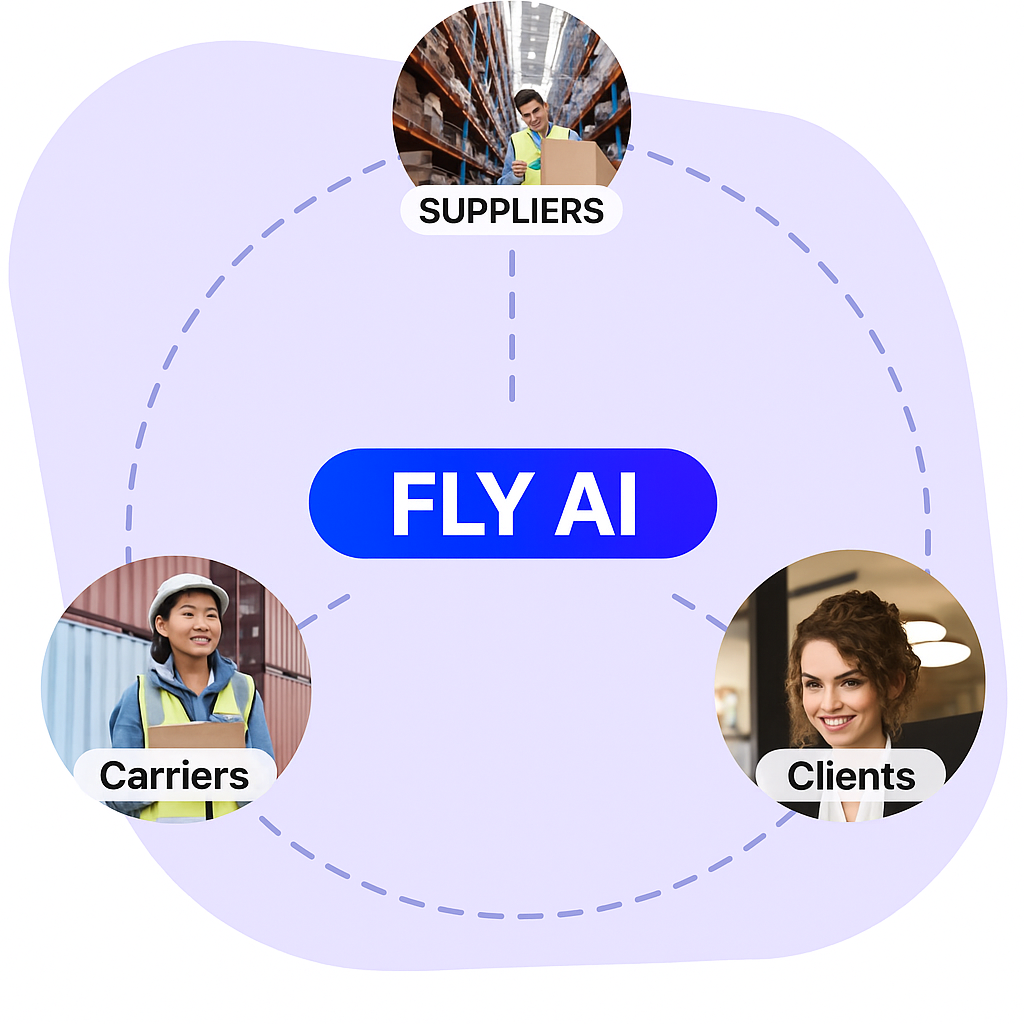
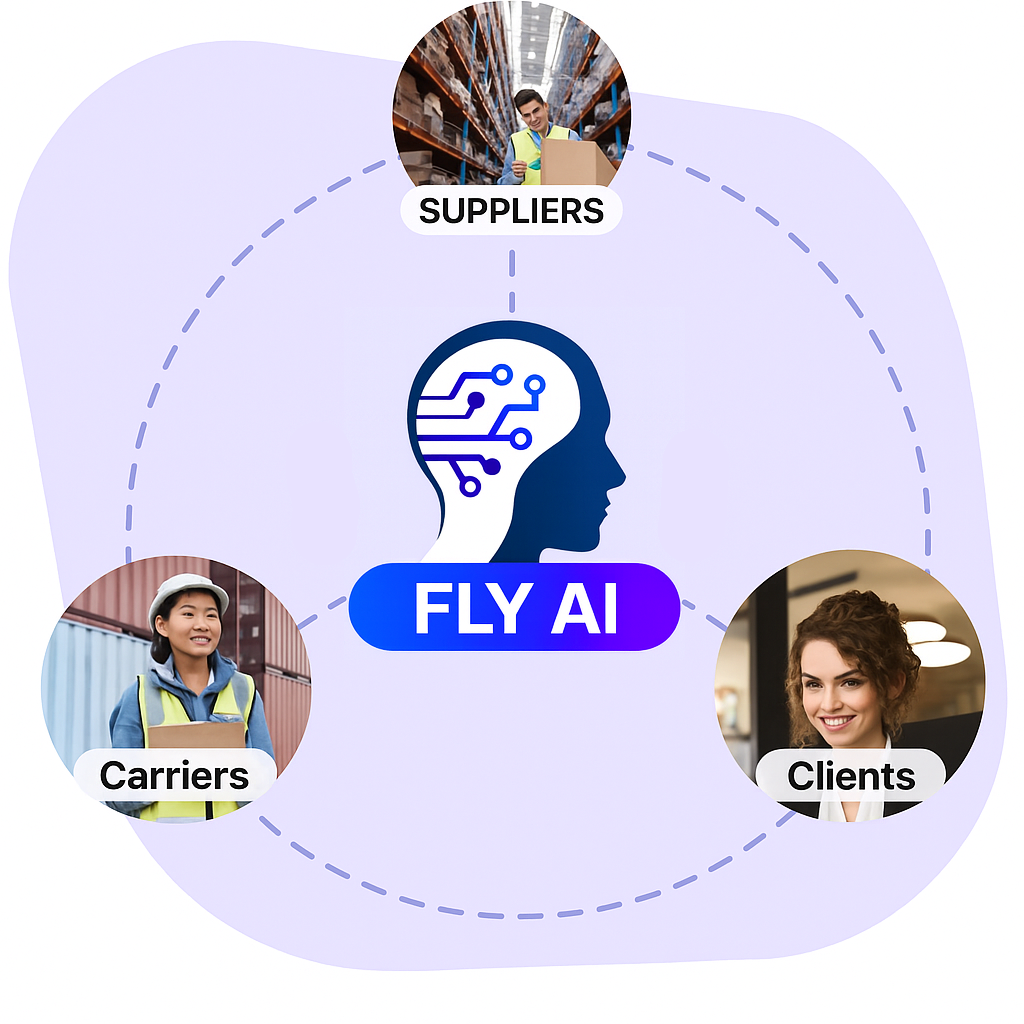
11

Changed region(s): [[0.2812, 0.3125, 0.7188, 0.6562]]

diff --git a/components/Navbar.tsx b/components/Navbar.tsx
@@ -45,7 +45,7 @@ const Navbar = () => {
   return (
     <nav className="flexBetween max-container padding-container relative z-30 py-5">
       <Link href="/">
-        <img src="/fly_ai_logo.png" alt="FLY AI" width={150} height={29} />
+        <img src="/FLY_AI_logo_new.png" alt="FLY AI" width={150} height={29} />
       </Link>
 
       <ul className="hidden h-full gap-12 lg:flex pt-7">
@@ -126,7 +126,7 @@ const Navbar = () => {
           <div className="fixed inset-0 z-40 bg-black/50" onClick={() => setMobileOpen(false)} />
           <div className="fixed top-0 right-0 z-50 h-full w-72 bg-white shadow-xl p-6 flex flex-col">
             <div className="flex items-center justify-between mb-6">
-              <img src="/fly_ai_logo.png" alt="FLY AI" width={120} height={24} />
+              <img src="/FLY_AI_logo_new.png" alt="FLY AI" width={120} height={24} />
               <button aria-label="Close menu" onClick={() => setMobileOpen(false)}>
                 <img src="/close.svg" alt="close" width={24} height={24} />
               </button>

diff --git a/components/Camp.tsx b/components/Camp.tsx
@@ -163,9 +163,9 @@ const Camp = () => {
       {/* Desktop version - horizontally scrollable with scroll hijacking */}
       <div className="hidden lg:block relative h-[500px] xl:h-[700px] w-full">
         {/* Scroll progress indicator */}
-        <div className="absolute top-4 right-4 z-20 bg-black/50 text-white px-3 py-1 rounded-full text-sm">
+        {/* <div className="absolute top-4 right-4 z-20 bg-black/50 text-white px-3 py-1 rounded-full text-sm">
           Scroll: {Math.round(horizontalScrollProgress * 100)}% | Active: {isHorizontalScrolling ? 'Yes' : 'No'}
-        </div>
+        </div> */}
         
         <div 
           ref={scrollContainerRef}

diff --git a/components/Footer.tsx b/components/Footer.tsx
@@ -12,7 +12,7 @@ const Footer = () => {
       <div className="padding-container max-container flex w-full flex-col gap-14">
         <div className="flex flex-col items-center md:items-start justify-center gap-[10%] md:flex-row">
           <Link href="/" className="mb-10">
-            <img src="/fly_ai_logo.png" alt="FLY AI" width={250} height={40} />
+            <img src="/FLY_AI_logo_new.png" alt="FLY AI" width={250} height={40} />
           </Link>
 
           <div className='flex flex-wrap gap-10 sm:justify-between md:flex-1'>
